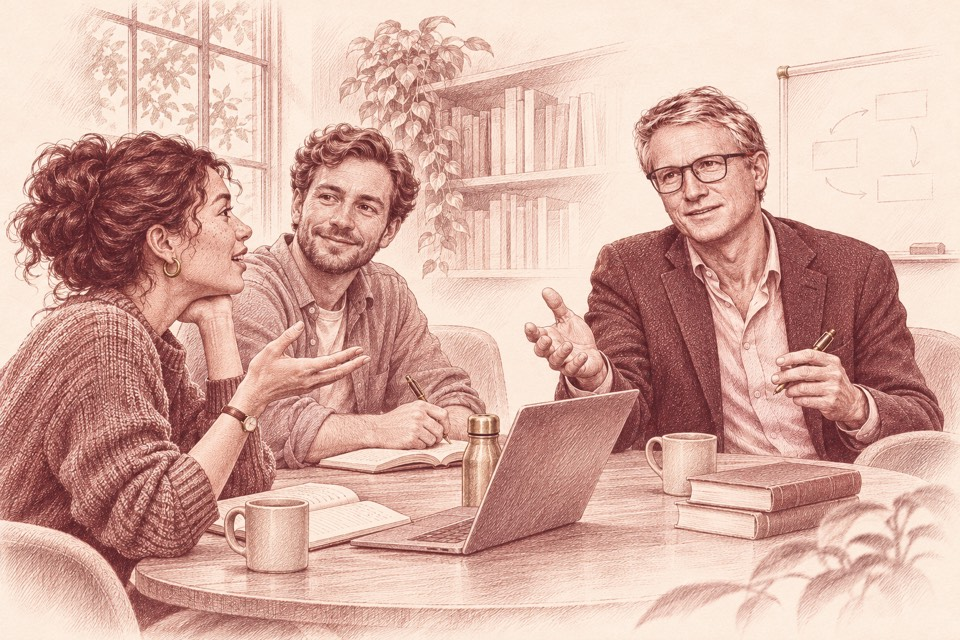
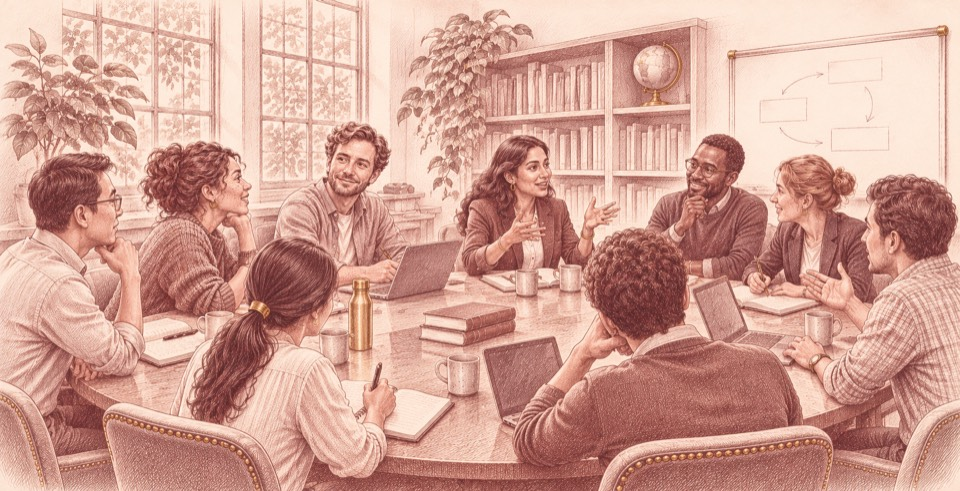
Show a larger student-led discussion on the Teaching page

diff --git a/teaching.html b/teaching.html
@@ -33,7 +33,7 @@
 
     <main class="page">
       <section class="page-header illustrated-intro">
-        <img src="assets/teaching-sketch.jpg" width="960" height="640" alt="Steffen Giessner and students exchanging ideas around a seminar table." />
+        <img src="assets/teaching-sketch.jpg?v=group" width="960" height="491" alt="Nine seminar participants discussing a case around a table." />
         <div>
         <p class="eyebrow">Teaching</p>
         <h1>Teaching, Supervision, and Mentoring</h1>
